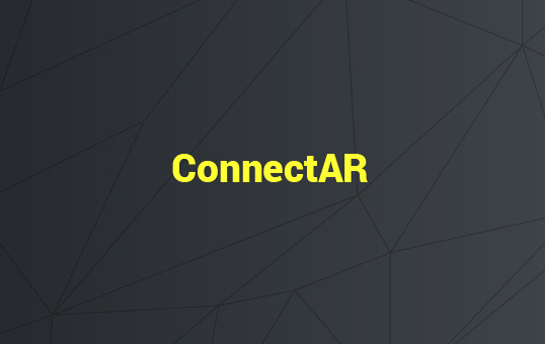
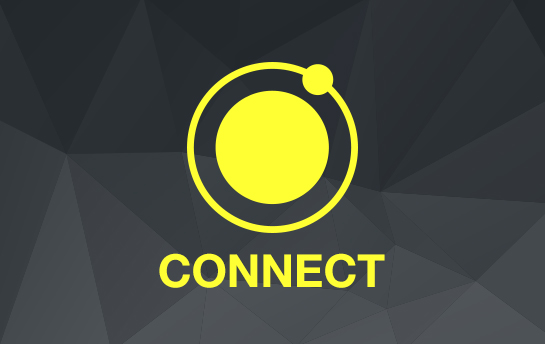
nuevos cambios en gráficos
Nuevos cambios en las slides y en el nombre CONNECT, antes BIC.

diff --git a/index (Copia en conflicto de Brian Juarez 2015-01-13).html b/index (Copia en conflicto de Brian Juarez 2015-01-13).html
@@ -74,7 +74,7 @@
 	    <div class="navigation">
 			<ul class="nav-content">
 				<li><a class="active" href="#section1">Inicio</a></li>
-				<li><a href="#section2">Acerca de RA</a></li>
+				<li><a href="#WhatisAR">Acerca de RA</a></li>
 				<li><a href="#Services">Servicios</a></li>
 				<li><a href="#AppsRA">Apps</a></li>
 				<li><a href="#Aboutcompany">Nosotros</a></li>
@@ -101,7 +101,7 @@
 
 		 	<!-- Buttons -->
 			<ul class="call-to-action">
-				<li><a class="button" href="#section2">Descubre ILLUTIO</a></li>
+				<li><a class="button" href="#WhatisAR">Descubre ILLUTIO</a></li>
 				<li><a class="button no-border" href="#footer" >Contacto<i class="icon right"></i></a></li>
 			</ul>
 
@@ -497,7 +497,7 @@
 				<ul class="bxslider">
 					<li>
 						<h3>“Increíble la tecnología de realidad aumentada y la facilidad para poder manejarla.”</h3>
-						<h6>Juan Manuel Guzmán. EquisDe marketing</h6>
+						<h6>, Juan Manuel Guzmán. EquisD marketing</h6>
 					</li>
 					<li>
 						<h3>“The BIC augmented reality app is a new and fresh innovation that makes my business look real pro!”</h3>

diff --git a/projects/project3.html b/projects/project3.html
@@ -92,9 +92,9 @@
 		<div class="project-hero grid-full">
 
 			<!-- Video -->
-			<!--<div class="video">
-                <iframe src="http://player.vimeo.com/video/11218786?color=f2eee5" width="940" height="529" frameborder="0" webkitallowfullscreen="" mozallowfullscreen="" allowfullscreen=""></iframe>
-            </div>-->
+			<div class="video">
+                <iframe width="940" height="529" src="//www.youtube.com/embed/btv9anQfv4Q" frameborder="0" allowfullscreen></iframe>
+            </div>
 
 		</div>
 

diff --git a/assets/stylesheets/style (Copia en conflicto de Brian Juarez 2015-01-13).css b/assets/stylesheets/style (Copia en conflicto de Brian Juarez 2015-01-13).css
@@ -619,7 +619,7 @@ i.icon-remove:hover {
 
 .bxslider { text-align: center; padding-top: 35px; }
 .bxslider h3 { line-height: 1.6em; }
-.bxslider h6 { margin-bottom: 35px; color: #262b30; }
+.bxslider h6 { margin-bottom: 35px; color: #8f8f8f; }
 
 .bx-next, .bx-prev {
 	position: absolute;
